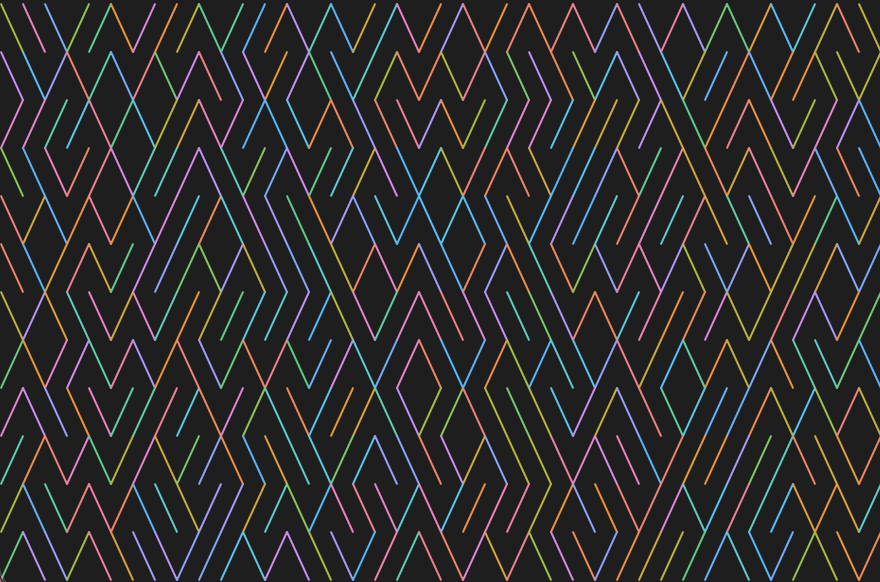
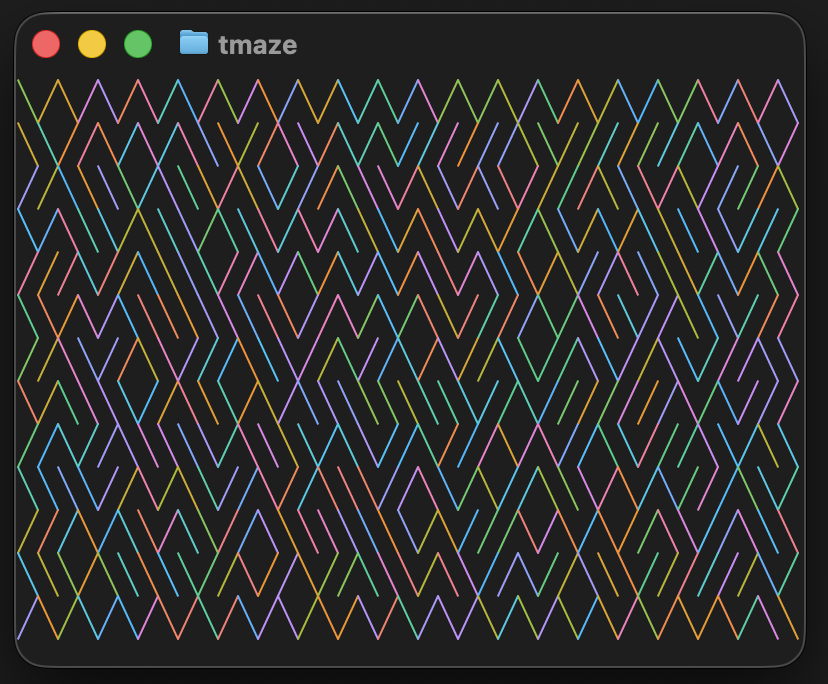
Make the maze solvable (#5)
* Make the maze solveable

* Update with solveable sshot / example

* cleaner code

* need extra line before sshot

Changed region(s): [[0.0, 0.0, 1.0, 1.0]]

diff --git a/main.go b/main.go
@@ -50,13 +50,24 @@ func Main() int {
 		// Debug the palette:
 		// ap.WriteString(tcolor.Inverse)
 		runes := []rune{'╱', '╲'}
+		var idx int
 		for l := range ap.H {
 			if st.newlines && l > 0 {
 				ap.WriteString("\r\n") // not technically needed but helps copy paste
 			}
-			for range ap.W {
+			for c := range ap.W {
 				st.EmitColor(l)
-				idx := rand.IntN(len(runes)) //nolint:gosec // just for visual effect
+				switch {
+				case l == 0 || c+1 == ap.W:
+					// top line or rightmost column
+					idx = (l + c + 1) % 2
+				case l+1 == ap.H || c == 0:
+					// bottom line or leftmost column
+					idx = (l + c) % 2
+				default:
+					// inside is random
+					idx = rand.IntN(len(runes)) //nolint:gosec // just for visual effect
+				}
 				ap.WriteRune(runes[idx])
 			}
 		}

diff --git a/README.md b/README.md
@@ -8,34 +8,35 @@ Ansi pixels version of the C64 classic maze
 
 In mono:
 ```
-╲╲╲╱╲╱╲╲╱╱╱╱╲╱╲╲╱╱╱╲╲╲╱╱╲╲╲╲╲╱╲╱╱╲╲╱╲╱╱╱╲╲╲╲╲╲╲╱╲╱╱╲╱╱╱╲╲╲╱╲╱╲╲╱╲╲╱╱╲╱╲╱╱╲╱╱╱╱╲╲
-╲╲╲╱╲╲╱╲╲╱╲╱╲╲╲╲╲╲╲╱╱╱╲╱╲╲╲╱╲╲╲╱╱╱╱╲╲╲╱╲╱╲╱╲╲╱╲╱╱╱╲╲╲╱╱╲╲╲╲╲╲╲╲╱╱╲╲╲╱╲╲╱╱╲╱╱╱╲╱╱
-╱╱╲╱╱╱╱╲╱╱╱╱╲╱╲╱╲╱╱╲╱╲╲╲╱╲╱╱╲╱╱╱╱╲╱╲╲╲╲╱╲╱╱╱╲╱╲╱╱╲╲╱╱╲╲╱╲╱╱╱╲╲╱╲╱╱╲╱╱╲╲╲╱╱╲╲╲╱╱╲
-╱╱╱╲╱╲╲╲╲╲╲╱╲╱╲╱╱╱╱╲╲╲╲╲╲╲╲╲╱╱╱╱╲╱╱╲╱╲╲╱╱╲╱╱╱╲╲╲╲╲╱╲╱╲╱╲╱╱╲╱╲╲╲╲╲╱╲╲╲╱╱╲╲╱╲╲╱╱╱╱
-╲╲╲╲╱╱╲╱╲╲╱╱╱╲╱╲╱╲╲╲╲╲╱╲╲╲╱╲╲╱╱╱╱╱╲╲╲╲╱╲╱╲╱╱╱╱╲╱╲╱╱╱╱╱╱╱╲╱╲╲╲╱╱╱╱╱╱╲╲╲╲╱╱╱╱╲╱╱╱╲
-╱╲╲╲╲╲╱╱╱╲╲╱╲╲╱╱╲╲╱╱╲╱╱╲╱╱╲╱╱╲╲╱╲╱╲╱╱╱╲╲╲╲╱╲╲╱╲╲╲╲╱╱╱╲╲╲╱╲╲╱╱╲╲╱╱╲╲╱╱╱╱╱╲╱╲╱╱╱╱╱
-╲╲╲╱╲╱╱╲╲╲╱╱╱╱╱╱╲╱╲╱╲╱╲╱╲╱╱╲╲╲╱╱╱╱╱╱╱╱╱╲╱╱╲╲╱╲╱╲╱╱╱╱╱╱╱╱╱╲╱╲╲╲╱╱╱╲╱╱╱╱╲╱╲╲╲╲╲╲╲╲
-╲╲╱╱╲╱╱╱╲╱╲╲╱╲╲╲╲╱╱╱╲╲╲╱╲╱╲╱╱╱╱╲╲╲╲╲╱╲╱╱╱╱╲╲╲╲╲╲╱╲╲╱╲╱╱╱╱╱╲╲╲╱╲╱╱╲╱╱╲╱╲╱╱╲╲╲╱╲╲╱
-╱╱╲╲╱╱╱╲╲╲╱╲╱╱╱╲╱╱╲╱╱╲╱╲╲╱╲╲╱╲╲╲╲╱╱╱╲╱╱╲╱╱╲╱╱╲╱╱╲╲╲╱╱╱╲╱╲╱╲╱╲╲╲╱╱╱╲╲╲╲╱╲╲╲╱╱╲╲╲╲
-╲╱╲╲╱╲╱╱╲╱╱╱╱╲╱╲╲╲╲╱╱╲╱╱╱╱╲╱╱╲╲╱╱╱╲╱╲╲╱╲╲╲╱╱╲╱╱╲╲╱╲╲╱╱╱╱╱╱╱╱╲╲╲╲╲╱╲╲╲╱╲╲╱╲╲╱╱╲╲╱
-╱╲╲╱╱╱╱╲╲╱╱╲╱╱╲╲╲╱╱╲╱╲╱╲╲╱╱╲╱╲╲╱╲╱╲╲╱╲╲╲╱╱╱╲╱╱╱╱╲╱╲╲╲╱╲╲╱╲╱╱╲╱╲╲╲╱╱╲╲╲╱╲╱╲╱╲╲╲╲╱
-╲╱╱╱╲╱╱╱╱╱╲╱╲╲╲╱╲╲╱╲╱╱╲╱╱╲╲╲╱╱╲╲╲╲╱╲╱╱╲╲╲╲╲╱╱╲╲╲╲╲╲╱╲╲╲╲╲╲╲╱╱╱╱╲╲╲╱╱╱╲╲╱╲╲╱╱╲╲╱╲
-╲╱╱╲╲╲╱╱╱╲╱╲╲╱╱╲╱╱╲╲╲╱╱╲╱╱╱╱╱╱╱╲╲╲╱╲╱╱╲╱╱╲╲╱╱╲╲╱╱╱╲╲╲╱╱╱╱╱╲╱╲╱╱╲╱╱╱╱╱╲╱╲╲╱╱╲╱╱╲╲
-╲╱╲╲╱╱╱╱╱╲╲╱╱╲╲╱╲╱╲╱╲╱╱╱╱╲╲╲╱╱╲╲╲╱╱╱╱╲╱╲╲╲╱╲╱╱╱╱╱╱╲╲╲╱╲╱╲╱╱╲╱╱╲╱╲╲╲╱╲╱╲╱╲╱╲╱╲╲╱╱
-╲╲╱╲╲╲╲╲╲╱╲╱╲╲╲╱╱╱╲╱╲╲╲╱╱╲╱╲╲╱╲╲╲╱╲╱╲╲╱╲╱╱╲╱╱╲╲╱╱╱╱╱╱╱╲╱╱╱╱╱╲╱╱╲╱╱╱╲╱╲╲╲╱╱╲╲╲╲╱╲
-╲╱╱╱╱╲╲╱╲╱╲╱╲╱╲╲╱╱╱╲╲╲╱╱╲╲╱╱╱╱╱╲╲╲╲╲╱╱╲╲╱╲╱╲╱╲╱╲╱╲╲╲╲╱╱╲╲╱╱╱╱╱╱╲╲╱╲╲╱╱╲╱╲╲╱╲╱╲╲╱
-╱╲╱╲╲╲╱╱╱╱╲╱╱╱╲╱╲╱╲╲╲╱╲╲╱╲╱╲╲╱╱╲╱╱╱╲╲╲╱╱╲╲╱╲╲╲╱╱╱╲╱╲╲╲╲╲╱╲╲╲╲╲╱╱╱╱╱╱╱╲╲╲╱╲╱╲╱╱╱╲
-╱╱╲╱╱╲╱╲╱╱╲╲╲╲╱╲╱╲╲╱╱╱╲╲╱╱╲╱╲╲╱╲╱╱╱╲╱╱╲╲╲╲╲╱╱╱╱╱╲╲╲╲╲╲╲╱╱╲╱╱╱╲╱╲╲╱╲╲╱╱╲╲╲╲╲╱╱╲╲╲
-╲╲╱╱╲╱╱╱╲╲╲╱╱╱╲╱╱╱╱╱╲╱╲╲╱╲╱╱╲╱╲╲╱╲╲╲╱╲╲╱╲╱╲╱╱╱╲╲╱╱╲╲╲╱╲╲╱╱╱╱╲╲╲╱╱╲╱╲╲╱╱╲╲╱╱╲╲╱╱╲
-╲╱╲╱╱╲╲╲╱╲╱╱╲╱╲╱╲╱╱╱╲╲╲╲╲╱╲╱╱╲╱╲╲╲╱╲╱╱╱╲╲╱╱╲╲╲╱╲╱╱╲╱╱╲╱╲╱╲╱╱╱╲╱╱╱╲╱╲╱╱╲╱╲╲╱╲╲╲╲╱
-╱╲╲╲╱╱╲╲╱╱╲╲╲╲╱╲╱╱╱╱╱╲╲╱╲╲╲╲╲╲╲╲╲╱╱╲╱╲╱╱╲╲╱╲╱╲╱╱╲╲╲╱╲╱╱╲╱╱╲╱╲╱╲╲╲╲╲╲╱╲╲╱╱╱╲╲╲╲╲╲
-╲╱╱╲╱╲╲╱╱╲╱╱╲╱╱╱╱╱╲╱╲╱╲╱╱╲╲╲╲╲╱╲╱╱╲╱╱╲╱╱╲╲╱╱╲╱╱╱╲╲╲╲╱╱╲╲╱╱╲╱╱╱╲╱╲╱╲╲╲╲╲╱╲╱╲╱╱╱╲╲
-╲╱╱╲╱╱╱╲╲╱╱╲╲╱╱╱╱╲╱╱╲╲╱╲╲╱╲╱╲╱╲╲╱╲╲╲╱╲╲╱╲╲╲╱╲╲╱╱╱╱╲╱╲╱╱╱╱╱╱╲╱╱╱╲╲╲╱╱╱╱╲╱╱╲╱╱╱╲╱╲
-╲╱╱╱╲╲╲╲╱╲╲╱╲╲╲╱╲╲╱╱╱╱╲╱╲╱╲╲╲╱╲╱╲╲╱╱╱╱╱╲╱╱╲╲╲╱╱╱╲╱╱╱╱╲╲╲╱╲╲╱╱╱╱╱╲╲╱╲╱╲╱╱╲╱╲╱╱╱╲╱
-╲╱╲╱╲╱╲╱╲╲╱╲╱╱╲╲╲╲╲╱╲╲╱╲╱╲╲╱╲╲╱╱╱╲╲╱╲╱╲╲╱╱╲╱╱╱╱╱╲╱╲╲╲╱╲╲╱╲╱╲╱╲╱╱╱╲╱╲╱╲╱╱╲╲╱╲╱╱╱╲
+╲╱╲╱╲╱╲╱╲╱╲╱╲╱╲╱╲╱╲╱╲╱╲╱╲╱╲╱╲╱╲╱╲╱╲╱╲╱╲╱╲╱╲╱╲╱╲╱╲╱╲╱╲╱╲╱╲╱╲╱╲╱╲╱╲╱╲╱╲╱╲╱╲╱╲╱╲╱╲╱
+╲╱╲╲╲╲╱╲╲╱╱╲╱╱╲╲╲╱╱╱╱╲╲╱╲╱╲╱╱╱╲╲╱╱╲╱╲╲╱╲╲╲╲╲╱╱╲╲╲╱╲╱╲╱╲╱╲╱╱╱╲╱╱╲╱╱╲╲╲╲╲╲╱╲╱╱╲╲╱╲
+╱╲╲╲╱╱╲╲╱╲╱╱╲╲╱╱╱╱╲╲╱╲╱╲╲╱╲╱╲╱╲╲╲╱╱╱╱╱╲╱╲╱╲╱╲╱╱╲╲╱╲╱╱╱╱╲╲╲╱╲╱╱╲╱╲╲╱╱╱╲╲╱╲╲╱╱╲╲╱╱
+╲╱╲╲╲╱╱╲╱╲╲╱╲╲╲╱╲╲╱╲╲╱╱╲╲╱╱╲╱╲╱╱╲╲╱╲╲╲╲╱╱╱╲╱╲╱╱╱╱╲╲╲╱╱╱╱╱╲╲╲╲╲╱╱╲╱╲╲╱╲╲╲╲╱╲╲╱╲╲╲
+╱╱╲╲╱╱╲╲╲╲╲╲╲╲╱╱╱╲╱╲╲╲╱╱╲╲╲╱╱╱╲╱╲╱╲╲╱╲╱╱╱╲╲╲╲╲╲╲╱╱╱╲╱╲╱╱╲╱╱╲╲╲╲╲╱╱╲╲╲╱╲╱╱╱╲╲╱╱╱╱
+╲╱╲╲╱╲╲╱╲╲╲╱╱╲╱╲╱╱╱╲╲╱╲╲╱╲╲╲╱╲╱╲╱╲╲╱╱╱╱╱╱╲╱╱╲╱╲╱╲╲╱╲╲╱╲╱╲╱╲╲╱╱╲╲╱╱╱╱╲╲╱╲╱╲╲╲╱╲╱╲
+╱╲╲╱╲╱╲╲╲╱╲╱╱╱╱╱╲╱╱╱╱╱╱╲╲╲╲╱╲╱╲╲╱╲╲╱╲╱╲╱╲╲╱╱╱╱╲╱╲╲╲╱╲╲╲╲╲╱╱╲╱╲╱╲╲╱╱╱╲╲╲╲╱╲╱╱╱╲╲╱
+╲╱╲╲╱╲╲╲╲╱╱╲╱╲╲╱╱╱╱╱╱╱╱╲╱╱╲╱╲╱╲╲╱╱╱╱╱╲╲╲╲╲╱╲╱╲╲╱╱╲╲╲╲╲╲╱╲╲╲╱╲╱╲╲╱╱╱╲╱╲╱╱╱╱╲╲╱╲╲╲
+╱╲╱╱╲╲╱╲╲╱╱╲╲╲╱╱╲╲╱╱╱╱╲╱╲╱╱╲╲╲╲╲╱╱╲╱╱╱╱╱╲╲╲╲╱╱╱╲╱╲╱╱╱╱╱╲╲╱╲╲╲╱╲╲╱╲╲╲╱╲╱╲╲╱╲╱╱╲╲╱
+╲╱╱╱╲╲╱╲╱╱╱╱╲╲╲╲╲╱╱╱╲╲╱╲╲╲╱╲╲╱╲╲╱╲╲╱╱╲╲╱╱╲╲╲╱╲╲╱╱╲╲╲╲╱╱╱╲╱╱╱╲╲╲╲╱╱╲╲╲╲╲╱╱╱╲╱╱╲╲╲
+╱╱╱╱╱╱╲╱╲╱╲╱╲╲╱╱╱╲╱╲╱╱╲╱╱╱╲╱╱╲╱╲╱╲╲╱╱╲╱╲╱╲╲╲╱╲╱╱╲╲╲╱╱╱╲╱╲╲╲╱╱╱╲╱╲╱╲╱╲╲╱╱╱╲╱╲╲╱╲╱
+╲╱╱╱╱╱╱╱╲╱╲╱╱╱╲╱╱╱╲╱╲╱╱╲╲╲╱╲╲╲╱╱╲╲╱╲╲╲╲╲╲╲╱╲╱╱╲╲╱╲╲╲╱╱╱╱╲╲╱╱╱╲╲╲╱╱╲╲╱╲╲╲╱╲╲╲╱╲╲╲
+╱╱╲╲╲╱╱╲╱╲╱╱╱╱╱╲╱╱╲╲╱╲╱╱╲╲╲╲╲╱╱╲╱╱╲╱╲╱╲╱╱╱╱╲╲╲╲╲╲╲╲╲╱╱╲╲╱╱╲╲╲╱╲╲╲╲╲╱╱╲╲╱╱╲╱╲╲╱╲╱
+╲╲╱╱╲╲╱╲╱╱╲╲╲╲╱╱╱╱╱╱╱╱╱╲╲╱╱╲╱╲╲╱╱╱╱╲╲╲╲╲╱╲╱╱╲╱╱╱╲╱╲╲╲╲╲╲╲╲╱╲╱╱╱╲╱╱╲╲╱╲╱╲╱╱╱╲╲╲╲╲
+╱╱╱╱╲╱╲╱╲╲╱╱╱╱╱╲╱╱╲╲╲╱╱╲╱╱╱╲╲╲╱╲╱╱╱╲╲╲╲╱╲╱╱╲╱╲╱╲╲╱╱╲╲╲╱╱╲╱╱╱╲╲╱╲╱╲╱╲╱╱╲╱╲╲╲╱╲╲╱╱
+╲╲╲╱╲╱╱╲╱╲╱╱╲╱╲╲╲╲╱╲╱╱╲╱╱╱╱╲╱╲╲╲╱╲╲╲╲╲╲╱╱╱╲╲╲╱╱╱╲╲╲╱╲╱╱╱╲╲╲╲╲╲╲╲╲╲╱╱╱╱╱╲╱╱╲╲╲╲╱╲
+╱╲╱╲╱╱╲╱╲╱╱╲╱╱╱╱╱╲╱╱╲╱╱╲╱╱╱╲╲╱╱╲╱╱╲╲╱╲╱╲╲╱╲╲╲╱╲╲╲╱╱╱╱╲╲╲╲╱╲╲╱╱╱╱╲╲╲╱╲╲╲╱╲╲╱╲╱╱╲╱
+╲╱╲╲╲╱╲╱╱╱╱╱╱╱╲╱╱╱╲╱╱╲╱╲╱╲╱╱╲╱╱╲╱╲╲╱╱╲╲╲╱╲╱╲╲╱╲╲╱╲╲╲╲╱╲╲╱╱╱╲╲╲╱╲╲╲╲╲╲╲╱╲╱╱╲╲╱╲╱╲
+╱╱╲╱╲╱╲╱╲╲╱╲╱╲╱╱╲╱╲╲╱╱╱╲╲╱╲╲╱╱╱╱╲╱╱╲╲╲╱╱╱╱╱╲╲╲╲╲╲╱╱╲╱╲╲╲╲╱╲╲╱╲╱╱╱╱╱╲╱╲╱╲╲╱╱╱╱╱╲╱
+╲╲╲╱╱╱╲╲╲╲╱╱╱╱╲╱╱╱╱╲╲╱╲╲╱╱╲╲╲╱╲╲╲╲╱╲╱╱╲╲╱╲╱╱╱╱╱╲╱╱╱╲╱╲╲╲╱╲╲╱╱╱╲╱╱╱╱╲╲╲╲╲╱╱╲╲╲╱╱╲
+╱╱╲╱╲╱╲╲╲╱╱╲╲╲╲╱╱╲╱╲╱╱╱╱╱╲╲╱╱╱╲╱╱╲╲╲╱╲╲╲╱╲╱╲╲╲╱╲╱╲╲╱╱╲╲╲╱╲╲╱╱╱╱╱╲╲╱╱╲╱╱╲╱╲╲╲╲╲╱╱
+╲╱╲╲╱╱╲╲╱╲╱╱╲╲╲╱╱╱╲╱╱╱╲╱╲╲╱╱╲╲╲╱╱╱╱╲╲╱╲╱╱╱╲╲╱╲╲╱╲╲╱╲╲╱╱╱╲╲╱╲╱╲╲╲╱╲╲╲╲╱╲╲╱╲╱╲╱╱╱╲
+╱╱╱╲╱╱╲╲╱╱╱╲╲╲╲╱╱╱╱╱╱╱╱╲╲╱╱╱╲╱╱╱╲╲╲╲╱╲╲╱╱╲╲╱╱╱╱╲╱╱╱╱╱╱╱╲╲╱╲╱╲╱╲╲╲╲╱╱╲╲╲╲╱╱╱╱╱╲╲╱
+╲╲╱╱╲╲╲╲╲╱╱╱╱╱╱╲╲╱╱╱╱╲╲╲╱╲╲╲╱╲╲╲╲╱╱╲╱╱╱╲╱╲╲╱╲╲╱╱╲╱╲╱╱╱╲╱╱╱╱╱╱╲╱╲╱╲╱╱╲╱╲╱╱╱╱╲╱╱╲╲
+╱╲╱╲╱╲╱╲╱╲╱╲╱╲╱╲╱╲╱╲╱╲╱╲╱╲╱╲╱╲╱╲╱╲╱╲╱╲╱╲╱╲╱╲╱╲╱╲╱╲╱╲╱╲╱╲╱╲╱╲╱╲╱╲╱╲╱╲╱╲╱╲╱╲╱╲╱╲╱╱
 ```
 
 In color:
+
 ![Screenshot](screenshot.png)
 
 ## Install
